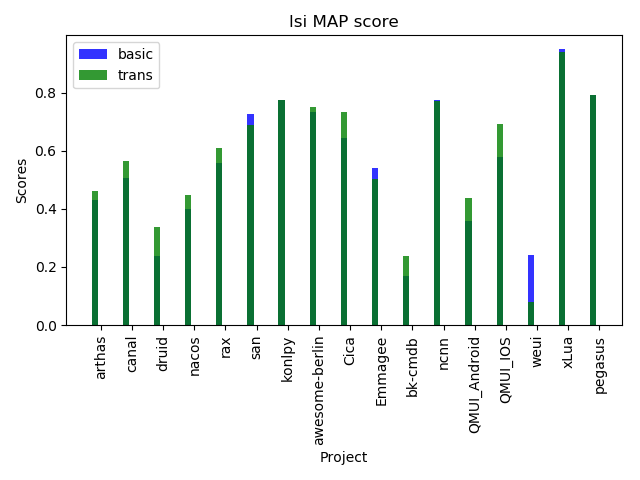
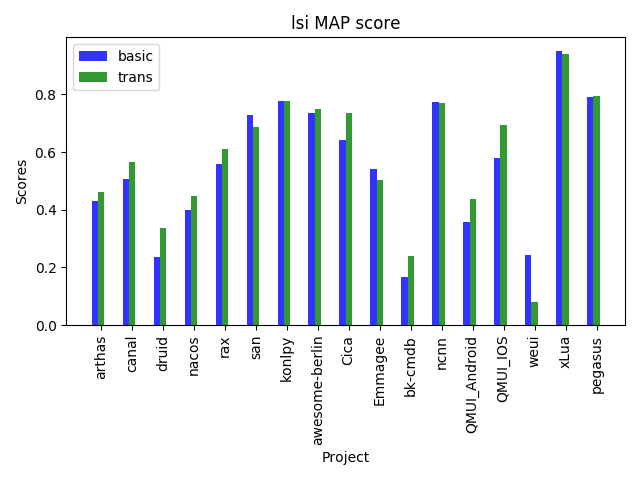
result

diff --git a/main/reborn/experiments/Experiment2/plot/bar_chart/exp2_barchart.py b/main/reborn/experiments/Experiment2/plot/bar_chart/exp2_barchart.py
@@ -16,6 +16,36 @@ def split_gvsm(data_dict):
     return gvsms, others
 
 
+def fig3_plot(data_dict, title, labels):
+    key = list(data_dict.keys())[0]
+    n_groups = len(data_dict[key])
+    fig, ax = plt.subplots()
+    index = np.arange(n_groups)
+    bar_width = 0.2
+    opacity = 0.8
+
+    rects1 = plt.bar(index, data_dict["gvsm_enwv_trans"], bar_width,
+                     alpha=opacity,
+                     color='r',
+                     label='gvsm_enwv_trans')
+    rects1 = plt.bar(index + bar_width * 1, data_dict["vsm_trans".format(model)], bar_width,
+                     alpha=opacity,
+                     color='g',
+                     label='vsm_trans')
+
+    plt.xlabel('Project')
+    plt.ylabel('Scores')
+    plt.title(title)
+
+    titles = [str(x) for x in labels]
+    plt.xticks(index + bar_width, titles, rotation='vertical')
+    plt.legend()
+
+    plt.tight_layout()
+    plt.savefig(title)
+    plt.clf()
+
+
 def bar_plot(data_dict, model, title, labels):
     key = list(data_dict.keys())[0]
     # data to plot
@@ -28,24 +58,30 @@ def bar_plot(data_dict, model, title, labels):
     bar_width = 0.2
     opacity = 0.8
     if model.startswith("gvsm"):
-        rects1 = plt.bar(index, data_dict[model], bar_width,
+        rects1 = plt.bar(index, data_dict["{}_enwv".format(model)], bar_width,
                          alpha=opacity,
                          color='r',
-                         label='basic')
-        rects1 = plt.bar(index + bar_width*1 , data_dict["{}_clwv".format(model)], bar_width,
+                         label='enwv',
+                         edgecolor="k",
+                         hatch="///")
+        rects1 = plt.bar(index + bar_width * 1, data_dict["{}_clwv".format(model)], bar_width,
                          alpha=opacity,
                          color='g',
-                         label='cross_lingual')
-        rects1 = plt.bar(index + bar_width*2, data_dict["{}_trans".format(model)], bar_width,
+                         label='clwv',
+                         edgecolor="k",
+                         hatch="---")
+        rects1 = plt.bar(index + bar_width * 2, data_dict["{}_enwv_trans".format(model)], bar_width,
                          alpha=opacity,
                          color='b',
-                         label='trans')
+                         label='enwv_trans',
+                         edgecolor="k",
+                         hatch="xxx")
     else:
         rects1 = plt.bar(index, data_dict[model], bar_width,
                          alpha=opacity,
                          color='b',
                          label='basic')
-        rects1 = plt.bar(index, data_dict["{}_trans".format(model)], bar_width,
+        rects1 = plt.bar(index+bar_width, data_dict["{}_trans".format(model)], bar_width,
                          alpha=opacity,
                          color='g',
                          label='trans')
@@ -54,7 +90,7 @@ def bar_plot(data_dict, model, title, labels):
     plt.ylabel('Scores')
     plt.title(title)
 
-    #titles = [str(x) for x in range(26)]
+    # titles = [str(x) for x in range(26)]
     titles = [str(x) for x in labels]
     plt.xticks(index + bar_width, titles, rotation='vertical')
     plt.legend()
@@ -74,9 +110,9 @@ if __name__ == "__main__":
     valid_projects.extend(
         ["alibaba/arthas", "alibaba/canal", "alibaba/druid", "alibaba/nacos", "alibaba/rax"])
     valid_projects.extend(["baidu/san", "Tencent/bk-cmdb",
-                      "Tencent/ncnn", "Tencent/QMUI_Android", "Tencent/QMUI_IOS",
-                      "Tencent/weui","Tencent/xLua","XiaoMi/pegasus",
-                      "NetEase/Emmagee" ])
+                           "Tencent/ncnn", "Tencent/QMUI_Android", "Tencent/QMUI_IOS",
+                           "Tencent/weui", "Tencent/xLua", "XiaoMi/pegasus",
+                           "NetEase/Emmagee"])
     valid_projects.extend(
         ["marlonbernardes/awesome-berlin", "konlpy/konlpy", "miiton/Cica"])
 
@@ -91,20 +127,20 @@ if __name__ == "__main__":
         project_names = lines[0].split(",")
         for line_num in range(2, len(lines)):
             cur_line = lines[line_num]
-            parts = cur_line.split(",\"")
+            parts = cur_line.split(",")
             model_name = parts[0].strip("\"")
             map_dict[model_name] = []
             f2_dict[model_name] = []
             f1_dict[model_name] = []
-            for i in range(0, (int)((len(parts) - 1) / 3)):
+            for i in range(0, (int)((len(parts) - 1) / 7)):
                 project_name = project_names[i * 3 + 1]
                 if project_name not in valid_projects:
                     print(project_name)
                     continue
                 labels.append(project_name)
-                f1 = float(parts[(i * 3) + 1].split(",")[2].strip("\"\n)"))
-                f2 = float(parts[(i * 3) + 2].split(",")[2].strip("\"\n)"))
-                map = float(parts[(i * 3) + 3].strip("\"\n"))
+                f1 = float(parts[(i * 7) + 3].strip("\"\n()"))
+                f2 = float(parts[(i * 7) + 6].strip("\"\n()"))
+                map = float(parts[(i * 7) + 7].strip("\"\n()"))
                 f1_dict[model_name].append(f1)
                 f2_dict[model_name].append(f2)
                 map_dict[model_name].append(map)
@@ -122,4 +158,17 @@ if __name__ == "__main__":
                     data_list = gvsm_data_list
                 else:
                     data_list = other_data_list
-                bar_plot(data_list[index], model, title,labels)
+                bar_plot(data_list[index], model, title, labels)
+
+        fig3_f2 = dict()
+        fig3_map = dict()
+
+        fig3_f2["vsm_trans"] = f2_other["vsm_trans"]
+        fig3_f2["gvsm_enwv_trans"] = f2_gvsm["gvsm_enwv_trans"]
+
+        fig3_plot(fig3_f2, "Fig3_f2", labels)
+
+        fig3_map["vsm_trans"] = map_other["vsm_trans"]
+        fig3_map["gvsm_enwv_trans"] = map_gvsm["gvsm_enwv_trans"]
+
+        fig3_plot(fig3_map,"Fig3_map",labels)

diff --git a/main/reborn/experiments/Experiment2/plot/box_plot/exp2_boxplot.py b/main/reborn/experiments/Experiment2/plot/box_plot/exp2_boxplot.py
@@ -56,24 +56,26 @@ if __name__ == "__main__":
         project_names = lines[0].split(",")
         for line_num in range(2, len(lines)):
             cur_line = lines[line_num]
-            parts = cur_line.split(",\"")
+            parts = cur_line.split(",")
             model_name = parts[0].strip("\"")
             map_dict[model_name] = []
             f2_dict[model_name] = []
             f1_dict[model_name] = []
-            for i in range(0, (int)((len(parts) - 1) / 3)):
+            for i in range(0, (int)((len(parts) - 1) / 7)):
                 project_name = project_names[i * 3 + 1]
                 if project_name not in valid_projects:
                     continue
-                f1 = float(parts[(i * 3) + 1].split(",")[2].strip("\"\n)"))
-                f2 = float(parts[(i * 3) + 2].split(",")[2].strip("\"\n)"))
-                map = float(parts[(i * 3) + 3].strip("\"\n"))
+                f1 = float(parts[(i * 7) + 3].strip("\"\n()"))
+                f2 = float(parts[(i * 7) + 6].strip("\"\n()"))
+                map = float(parts[(i * 7) + 7].strip("\"\n()"))
                 f1_dict[model_name].append(f1)
                 f2_dict[model_name].append(f2)
                 map_dict[model_name].append(map)
         f1_gvsm, f1_other = split_gvsm(f1_dict)
         f2_gvsm, f2_other = split_gvsm(f2_dict)
         map_gvsm, map_other = split_gvsm(map_dict)
+
+
         box_plot(f1_gvsm, "f1_gvsm")
         box_plot(f1_other, "f1_other")
 
@@ -82,3 +84,16 @@ if __name__ == "__main__":
 
         box_plot(map_gvsm, "map_gvsm")
         box_plot(map_other, "map_other")
+
+
+        fig3_f2 = dict()
+        fig3_map = dict()
+
+        fig3_f2["vsm_trans"] = f2_other["vsm_trans"]
+        fig3_f2["gvsm_enwv_trans"] = f2_gvsm["gvsm_enwv_trans"]
+
+        fig3_map["vsm_trans"] = map_other["vsm_trans"]
+        fig3_map["gvsm_enwv_trans"] = map_gvsm["gvsm_enwv_trans"]
+
+        box_plot(fig3_f2, "Compare F2 score of gvsm_tran and vsm_trans ")
+        box_plot(fig3_map, "Compare MAP score of gvsm_tran and vsm_trans ")
